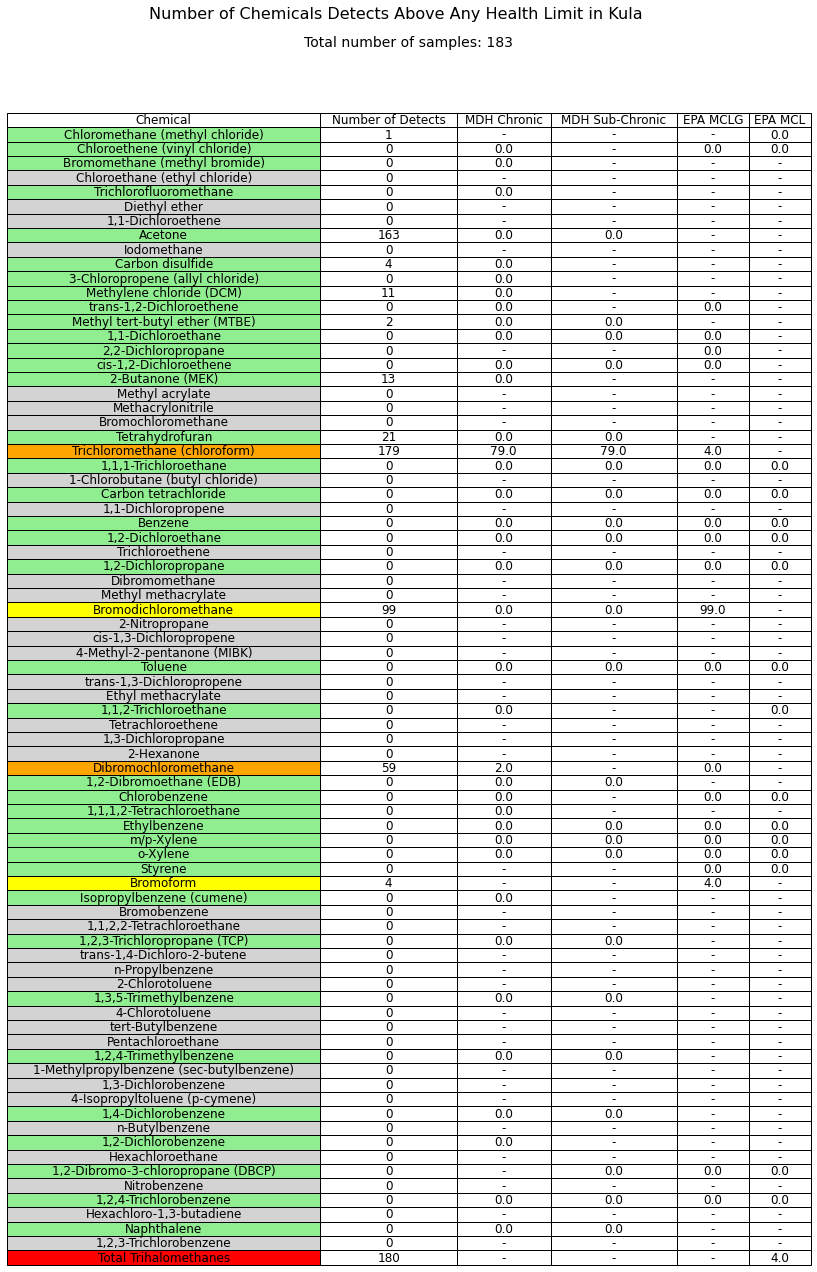
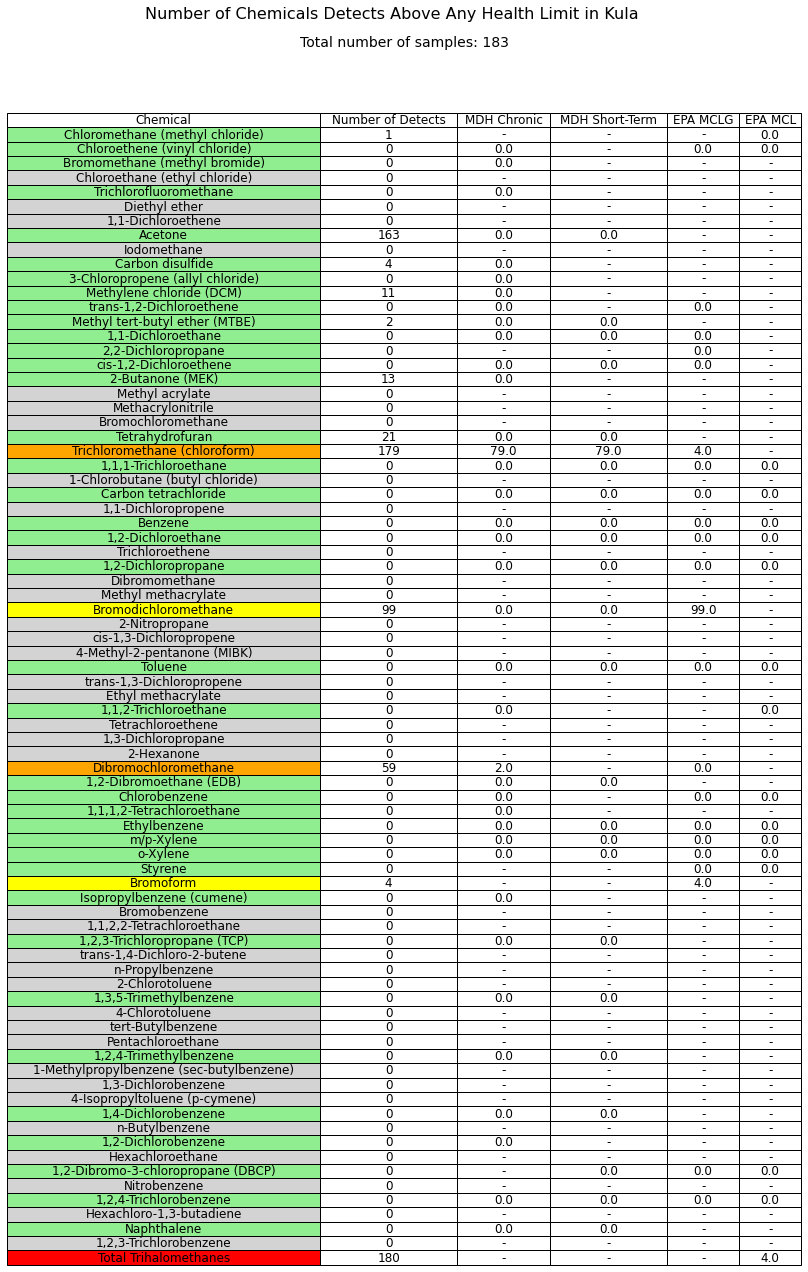
Updates

diff --git a/Scripts/creation_of_tables.py b/Scripts/creation_of_tables.py
@@ -340,7 +340,7 @@ min_chronic_health_limit = {"Chloromethane (methyl chloride)": np.nan,
 chronic_df = pd.DataFrame(list(min_chronic_health_limit.items()), columns=['Chemical', 'MDH Chronic'])
 
 min_subchronic_limit = {
-                 "Acetone": 5000, 
+                 "Acetone": 9000, 
                 "Methyl tert-butyl ether (MTBE)":700,
                 "1,1-Dichloroethane": 400, 
                 "cis-1,2-Dichloroethene": 20 ,
@@ -385,7 +385,7 @@ epa_mcgl_limit = {
     "Trichloromethane (chloroform)": 70,
     "1,1,1-Trichloroethane":200,
     "Carbon tetrachloride":0,
-    "Benzene": 0 ,
+    "Benzene": 0,
     "1,2-Dichloroethane":0,
     "1,2-Dichloropropane": 5,
     "Bromodichloromethane":0,
@@ -1030,7 +1030,7 @@ table = ax.table(
         'Chemical', 
         'Number of Detects', 
         'MDH Chronic', 
-        'MDH Sub-Chronic', 
+        'MDH Short-Term', 
         'EPA MCLG', 
         'EPA MCL'
     ],
@@ -1156,7 +1156,7 @@ table = ax.table(
         'Chemical', 
         'Number of Detects', 
         'MDH Chronic', 
-        'MDH Sub-Chronic', 
+        'MDH Short-Term', 
         'EPA MCLG', 
         'EPA MCL'
     ],
